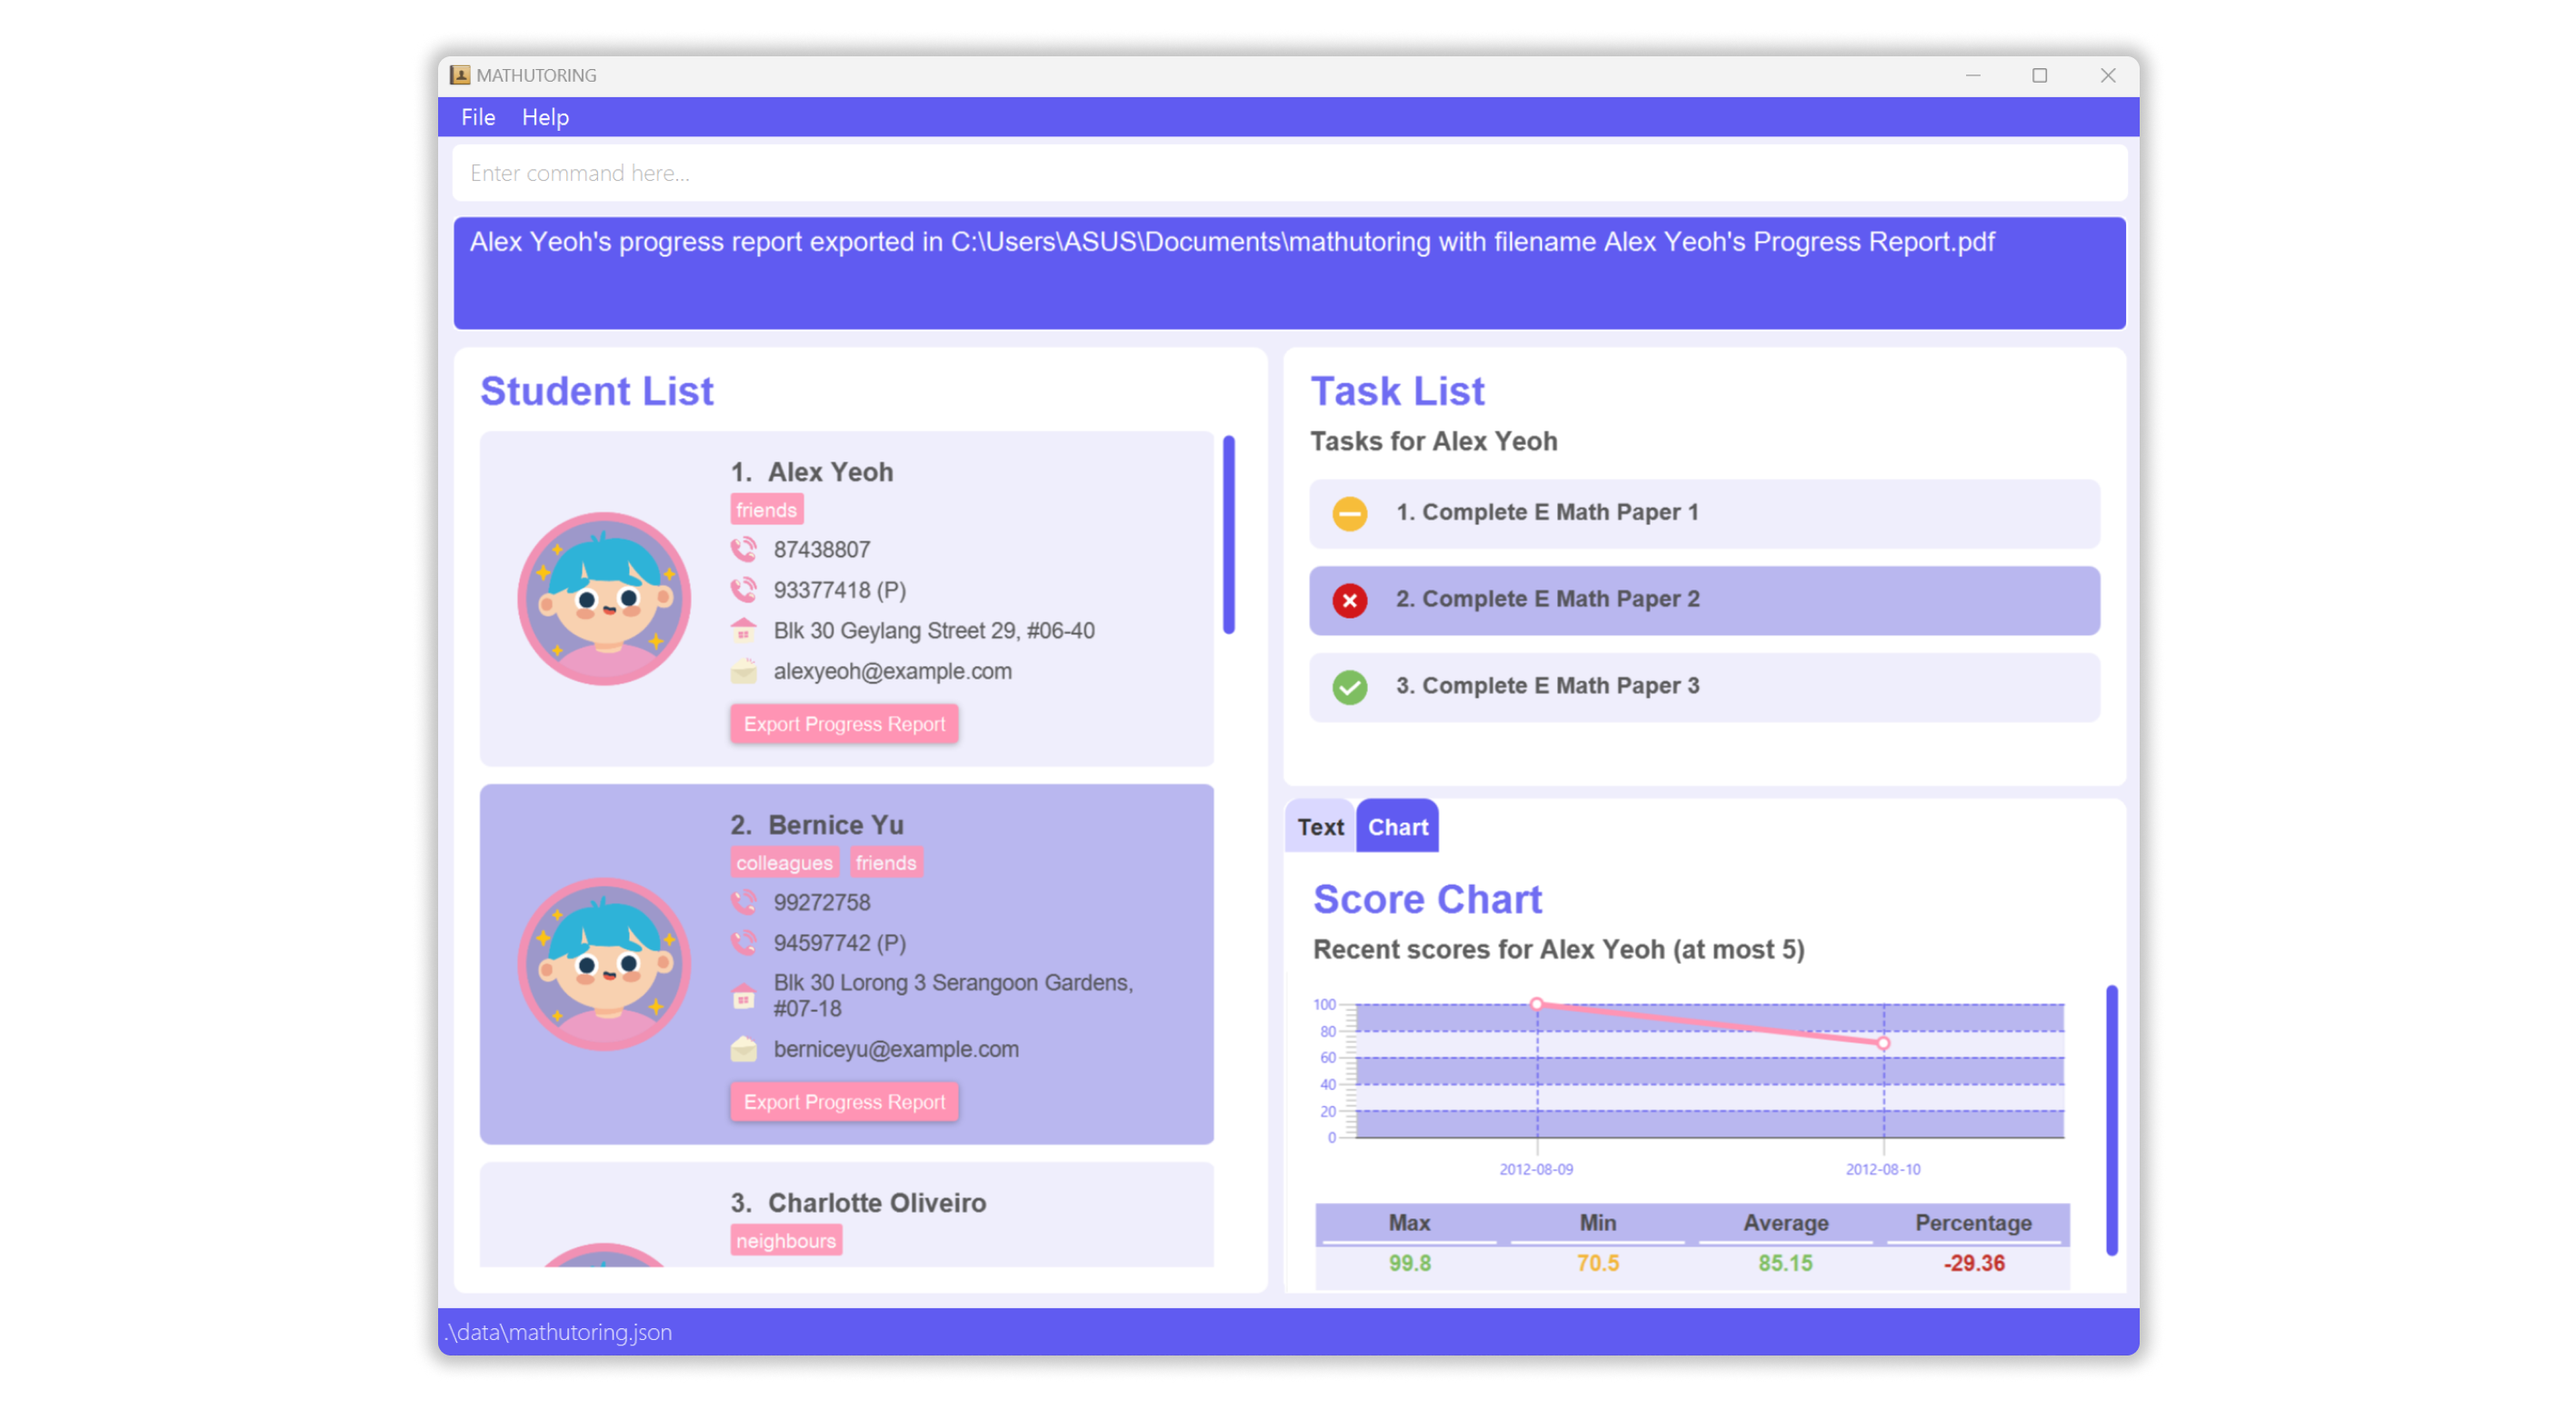
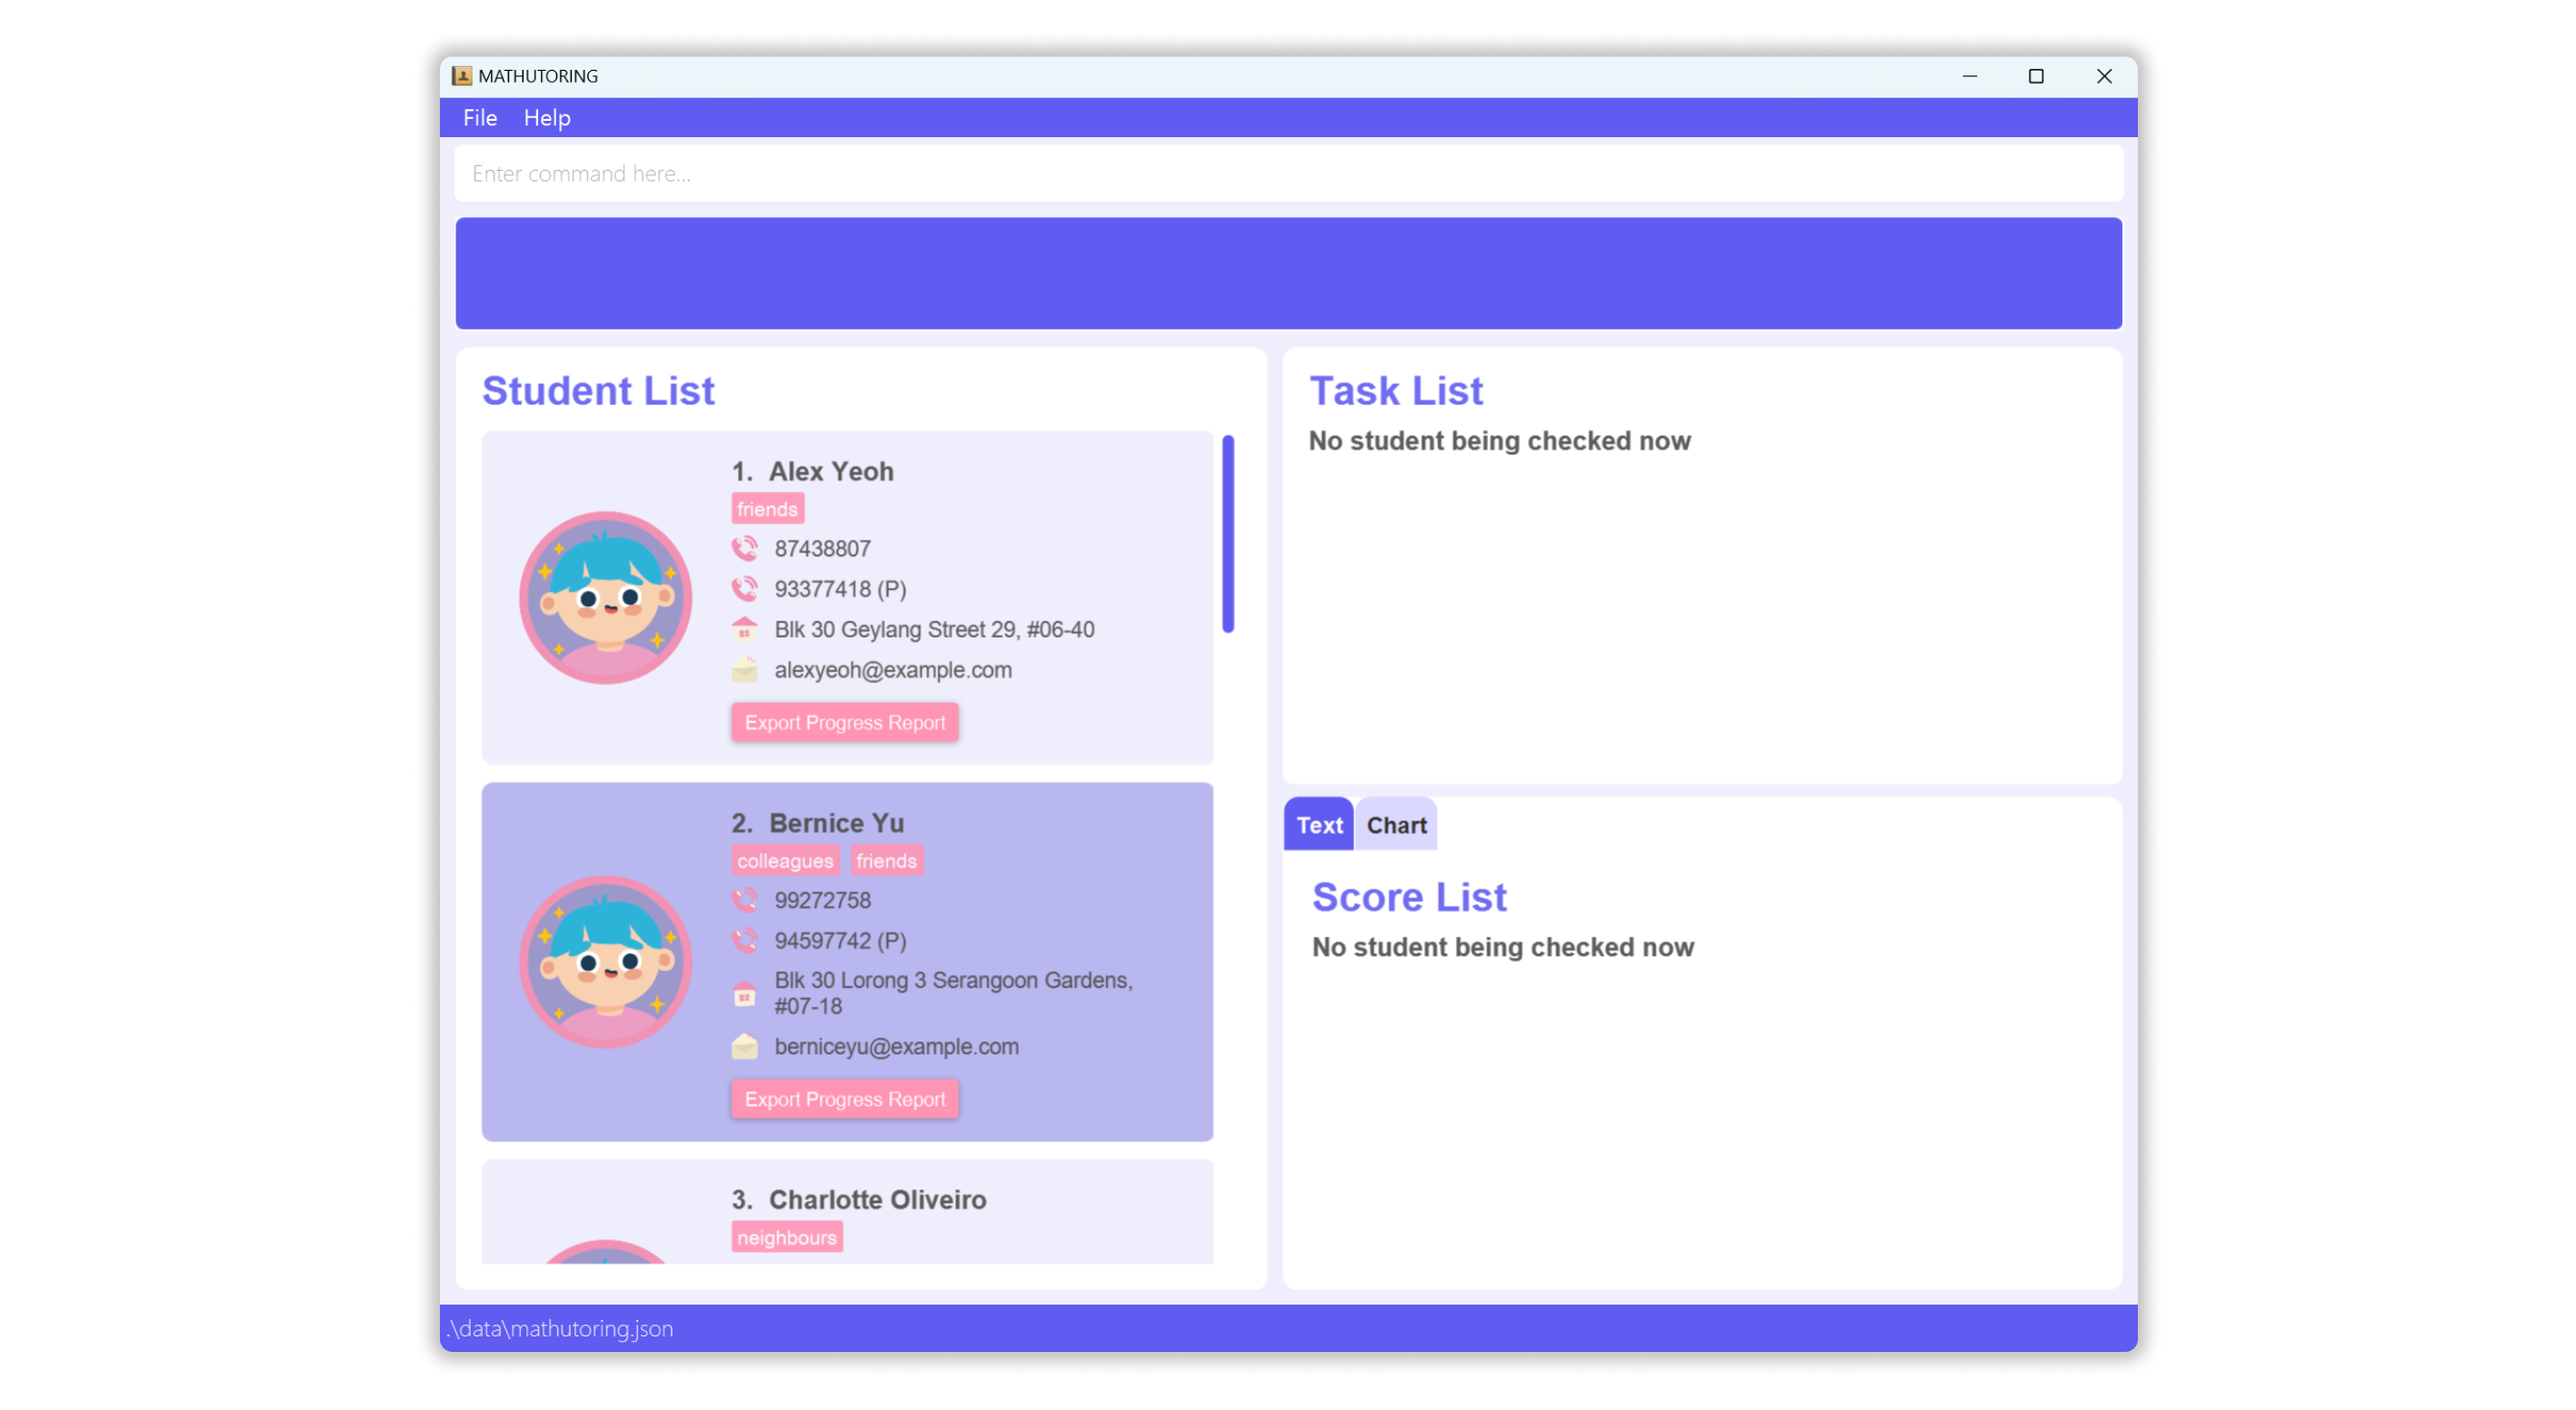
Fix initial UI image and delete page break

diff --git a/docs/UserGuide.md b/docs/UserGuide.md
@@ -95,8 +95,6 @@ If you need to switch to a new device, you can also export and import your previ
 
     ![InitialUi](images/UG-images/InitialUi.png)
 
-    <div style="page-break-after: always;"></div>
-
 5. Type the command in the command box and press `Enter` to execute it. e.g. typing **`help`** and pressing `Enter` will open the help window.<br>
    Some example commands you can try:
 
